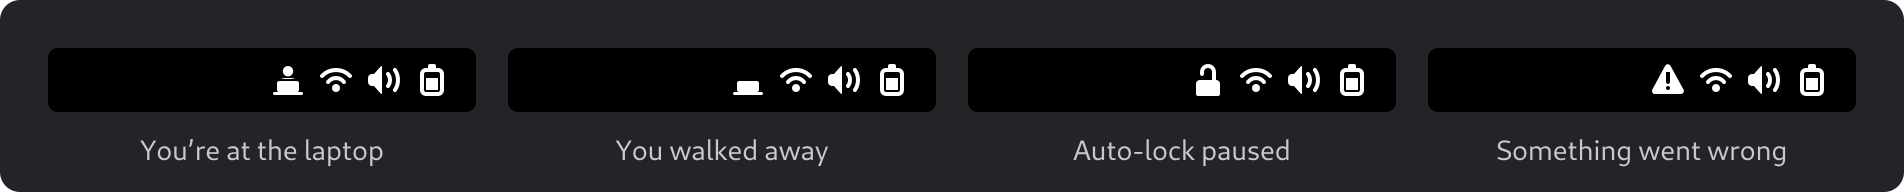
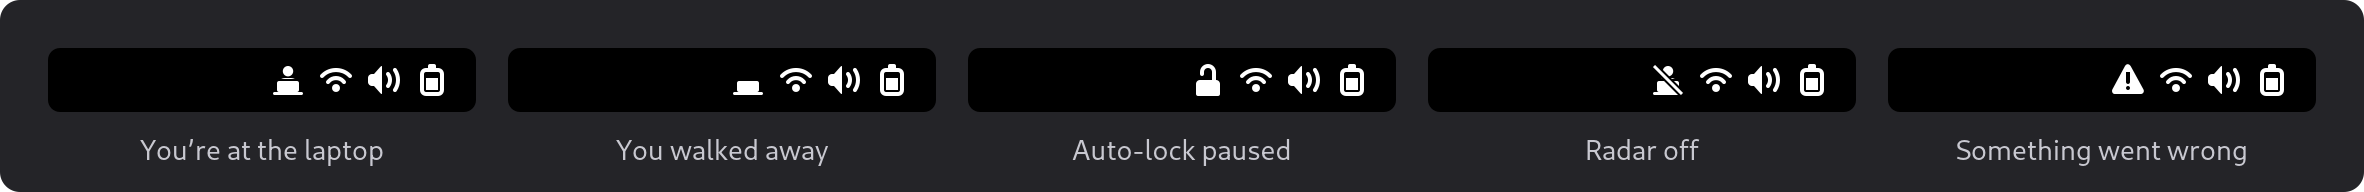
Add stay-awake option, radar switch and menu options
- Stay awake when present: hold an idle inhibitor while the radar sees
  you, so the screen doesn't blank, lock or suspend on its own.
- The Quick Settings tile now switches the radar on and off, like Wi-Fi
  or Bluetooth, with a crossed-out icon when off. Lock when away, Lock
  during playback and Stay awake are checkable in its menu.
- On any radar failure (read error, device gone, or 10 s without data),
  switch the radar off, cancel pending locks and release the inhibitor,
  so GNOME's own blanking, locking and suspend take over.

diff --git a/extension/extension.js b/extension/extension.js
@@ -9,6 +9,7 @@ import GObject from 'gi://GObject';
 import {Extension} from 'resource:///org/gnome/shell/extensions/extension.js';
 import * as Main from 'resource:///org/gnome/shell/ui/main.js';
 import * as MessageTray from 'resource:///org/gnome/shell/ui/messageTray.js';
+import * as PopupMenu from 'resource:///org/gnome/shell/ui/popupMenu.js';
 import * as QuickSettings from 'resource:///org/gnome/shell/ui/quickSettings.js';
 
 const SYSFS_DIR = '/sys/bus/platform/devices';
@@ -21,7 +22,20 @@ const SENSOR_NAME = 'Xethru Presence Sensor';
 const HEADER_LEN = 16;
 const PRESENCE_OFFSET = 26;
 
+// The radar sends about 4 samples a second, even when nothing changes, so
+// a long silence means it stopped working.
+const STALL_TIMEOUT = 10;
+const WATCHDOG_INTERVAL = 5;
+
 const IDLE_INHIBIT_FLAG = 8;
+
+function callSessionManager(method, params, replyType, cancellable, callback) {
+    Gio.DBus.session.call(
+        'org.gnome.SessionManager', '/org/gnome/SessionManager',
+        'org.gnome.SessionManager', method,
+        params, replyType ? new GLib.VariantType(replyType) : null,
+        Gio.DBusCallFlags.NONE, -1, cancellable, callback);
+}
 
 function readText(path) {
     const [, bytes] = GLib.file_get_contents(path);
@@ -79,23 +93,41 @@ function isLidClosed() {
 const TITLE = 'Presence Lock';
 // The tile is too narrow for the full name.
 const TILE_TITLE = 'Presence';
-const TILE_SUBTITLE = 'Lock when away';
 
-// Quick Settings tile: click to pause or resume auto-locking, arrow for
-// Settings.
+// Behavior options in the tile's menu, worded shorter than in Settings
+// to fit.
+const MENU_OPTIONS = [
+    ['auto-lock', 'Lock when away'],
+    ['lock-when-inhibited', 'Lock during playback'],
+    ['stay-awake', 'Stay awake when present'],
+];
+
+// Quick Settings tile: click to switch the radar on or off (like Wi-Fi or
+// Bluetooth), arrow for the on/off options (checkmarked like Power Mode)
+// and Settings.
 const PresenceToggle = GObject.registerClass(
 class PresenceToggle extends QuickSettings.QuickMenuToggle {
     _init(extension, settings) {
-        super._init({title: TILE_TITLE, subtitle: TILE_SUBTITLE, toggleMode: true});
-        settings.bind('auto-lock', this, 'checked', Gio.SettingsBindFlags.DEFAULT);
+        super._init({title: TILE_TITLE, toggleMode: true});
+        settings.bind('radar', this, 'checked', Gio.SettingsBindFlags.DEFAULT);
 
+        for (const [key, label] of MENU_OPTIONS) {
+            const item = this.menu.addAction(label,
+                () => settings.set_boolean(key, !settings.get_boolean(key)));
+            const sync = () => item.setOrnament(settings.get_boolean(key)
+                ? PopupMenu.Ornament.CHECK : PopupMenu.Ornament.NONE);
+            settings.connectObject(`changed::${key}`, sync, item);
+            sync();
+        }
+
+        this.menu.addMenuItem(new PopupMenu.PopupSeparatorMenuItem());
         this.menu.addAction('Settings', () => extension.openPreferences());
     }
 
     // Errors also go out as a notification; the subtitle just flags them.
-    setStatus(gicon, error) {
-        this.set({gicon, subtitle: error ?? TILE_SUBTITLE});
-        this.menu.setHeader(gicon, TITLE, error ?? '');
+    setStatus(gicon, status) {
+        this.set({gicon, subtitle: status});
+        this.menu.setHeader(gicon, TITLE, status ?? '');
     }
 });
 
@@ -109,10 +141,10 @@ class PresenceIndicator extends QuickSettings.SystemIndicator {
         this.quickSettingsItems.push(this.toggle);
     }
 
-    setStatus(gicon, error, showIcon, showToggle) {
+    setStatus(gicon, status, showIcon, showToggle) {
         this._icon.gicon = gicon;
         this._icon.visible = showIcon;
-        this.toggle.setStatus(gicon, error);
+        this.toggle.setStatus(gicon, status);
         this.toggle.visible = showToggle;
     }
 
@@ -131,6 +163,7 @@ export default class PresenceLockExtension extends Extension {
         this._icons = {
             present: fileIcon('presence-present'),
             away: fileIcon('presence-away'),
+            off: fileIcon('presence-off'),
             paused: Gio.ThemedIcon.new('changes-allow-symbolic'),
             error: Gio.ThemedIcon.new('dialog-warning-symbolic'),
         };
@@ -141,10 +174,37 @@ export default class PresenceLockExtension extends Extension {
         this._settings.connectObject(
             'changed::show-indicator', () => this._updateStatus(),
             'changed::auto-lock', () => this._onAutoLockChanged(),
+            'changed::stay-awake', () => this._updateStatus(),
+            'changed::radar', () => this._onRadarChanged(),
             this);
         Main.sessionMode.connectObject('updated', () => this._updateStatus(), this);
         this._updateStatus();
 
+        if (this._settings.get_boolean('radar'))
+            this._startRadar();
+    }
+
+    disable() {
+        this._stopRadar();
+        Main.sessionMode.disconnectObject(this);
+        this._settings.disconnectObject(this);
+        this._settings = null;
+        this._updateInhibit();
+        this._indicator.destroy();
+        this._indicator = null;
+        this._notificationSource?.destroy();
+        this._notificationSource = null;
+        this._icons = null;
+    }
+
+    _onRadarChanged() {
+        if (this._settings.get_boolean('radar'))
+            this._startRadar();
+        else
+            this._stopRadar();
+    }
+
+    _startRadar() {
         this._sensor = findSensor();
         if (!this._sensor) {
             this._setError('No radar found', 'This laptop has no Xethru presence sensor.');
@@ -160,34 +220,56 @@ export default class PresenceLockExtension extends Extension {
             return;
         }
         // Wrap the fd in a pollable stream so reads never block a thread
-        // and cancel cleanly on disable().
+        // and cancel cleanly in _stopRadar().
         this._stream = GioUnix.InputStream.new(this._fileStream.get_fd(), false);
         this._cancellable = new Gio.Cancellable();
         this._readNext();
+
+        this._lastSampleTime = GLib.get_monotonic_time();
+        this._watchdogId = GLib.timeout_add_seconds(GLib.PRIORITY_DEFAULT, WATCHDOG_INTERVAL, () => {
+            if (GLib.get_monotonic_time() - this._lastSampleTime < STALL_TIMEOUT * 1e6)
+                return GLib.SOURCE_CONTINUE;
+            this._watchdogId = 0;
+            this._setError('The radar stopped', 'It stopped sending data. Turn the radar off and on to retry.');
+            return GLib.SOURCE_REMOVE;
+        });
     }
 
-    disable() {
+    // Stops reading and switches the sensor off. With no presence known,
+    // nothing is scheduled to lock and the idle inhibitor is released, so
+    // GNOME's own blanking, locking and suspend take over.
+    _closeRadar() {
         this._cancellable?.cancel();
         this._cancellable = null;
+        if (this._watchdogId) {
+            GLib.source_remove(this._watchdogId);
+            this._watchdogId = 0;
+        }
         this._cancelLock();
         this._stream = null;
-        this._fileStream?.close(null);
+        try {
+            this._fileStream?.close(null);
+        } catch {
+            // The device may already be gone.
+        }
         this._fileStream = null;
         if (this._sensor)
             writeText(`${SYSFS_DIR}/${this._sensor}/enable_sensor`, '0');
         this._sensor = null;
-        Main.sessionMode.disconnectObject(this);
-        this._settings.disconnectObject(this);
-        this._settings = null;
-        this._indicator.destroy();
-        this._indicator = null;
-        this._notificationSource?.destroy();
-        this._notificationSource = null;
-        this._icons = null;
+        this._present = null;
     }
 
+    // Also clears any radar error, so turning the radar off and on retries.
+    _stopRadar() {
+        this._closeRadar();
+        this._error = null;
+        this._updateStatus();
+    }
+
+    // Radar errors stop it, falling back to GNOME's own behavior.
     _setError(summary, detail) {
         console.warn(`${this.metadata.name}: ${summary}. ${detail}`);
+        this._closeRadar();
         this._error = summary;
         this._updateStatus();
 
@@ -210,9 +292,12 @@ export default class PresenceLockExtension extends Extension {
     }
 
     _updateStatus() {
+        const radar = this._settings.get_boolean('radar');
         let icon;
         if (this._error)
             icon = this._icons.error;
+        else if (!radar)
+            icon = this._icons.off;
         else if (!this._settings.get_boolean('auto-lock'))
             icon = this._icons.paused;
         else if (this._present === false)
@@ -224,7 +309,42 @@ export default class PresenceLockExtension extends Extension {
         // unnoticed. Nothing shows on the lock screen.
         const locked = Main.sessionMode.isLocked;
         const showIcon = !locked && (!!this._error || this._settings.get_boolean('show-indicator'));
-        this._indicator.setStatus(icon, this._error, showIcon, !locked);
+        // No subtitle when off, like the built-in tiles.
+        let status = this._error;
+        if (!status && radar)
+            status = this._settings.get_boolean('auto-lock') ? 'Lock when away' : 'Not locking';
+        this._indicator.setStatus(icon, status, showIcon, !locked);
+        this._updateInhibit();
+    }
+
+    // With stay-awake on, hold an idle inhibitor while the radar sees you,
+    // so the screen doesn't blank, lock or suspend on its own. It's
+    // released as soon as you leave, before _maybeLock() checks for
+    // inhibitors.
+    _updateInhibit() {
+        const want = !!this._settings && this._settings.get_boolean('stay-awake') &&
+            this._present === true && !this._error && !Main.sessionMode.isLocked;
+
+        if (want && !this._inhibitCookie && !this._inhibitPending) {
+            // Not cancellable: the inhibitor would still be created, so
+            // wait for the cookie and release it here instead.
+            this._inhibitPending = true;
+            callSessionManager('Inhibit',
+                new GLib.Variant('(susu)', [this.uuid, 0, 'You’re at the computer', IDLE_INHIBIT_FLAG]),
+                '(u)', null, (connection, result) => {
+                    this._inhibitPending = false;
+                    try {
+                        [this._inhibitCookie] = connection.call_finish(result).deepUnpack();
+                    } catch (e) {
+                        console.warn(`${this.metadata.name}: Can’t inhibit idle. ${e.message}`);
+                        return;
+                    }
+                    this._updateInhibit();
+                });
+        } else if (!want && this._inhibitCookie) {
+            callSessionManager('Uninhibit', new GLib.Variant('(u)', [this._inhibitCookie]), null, null, null);
+            this._inhibitCookie = 0;
+        }
     }
 
     _readNext() {
@@ -234,13 +354,14 @@ export default class PresenceLockExtension extends Extension {
                 bytes = stream.read_bytes_finish(result);
             } catch (e) {
                 if (!e.matches(Gio.IOErrorEnum, Gio.IOErrorEnum.CANCELLED))
-                    this._setError('Lost the radar', `${e.message}. Turn the extension off and on to retry.`);
+                    this._setError('Lost the radar', `${e.message}. Turn the radar off and on to retry.`);
                 return;
             }
             if (bytes.get_size() === 0) {
-                this._setError('The radar stopped', 'It stopped sending data. Turn the extension off and on to retry.');
+                this._setError('The radar stopped', 'It stopped sending data. Turn the radar off and on to retry.');
                 return;
             }
+            this._lastSampleTime = GLib.get_monotonic_time();
             this._parse(bytes.toArray());
             this._readNext();
         });
@@ -315,11 +436,9 @@ export default class PresenceLockExtension extends Extension {
         }
 
         // Respect idle inhibitors (video playback, presentations, ...).
-        Gio.DBus.session.call(
-            'org.gnome.SessionManager', '/org/gnome/SessionManager',
-            'org.gnome.SessionManager', 'IsInhibited',
-            new GLib.Variant('(u)', [IDLE_INHIBIT_FLAG]), new GLib.VariantType('(b)'),
-            Gio.DBusCallFlags.NONE, -1, this._cancellable, (connection, result) => {
+        callSessionManager('IsInhibited',
+            new GLib.Variant('(u)', [IDLE_INHIBIT_FLAG]), '(b)',
+            this._cancellable, (connection, result) => {
                 let inhibited = false;
                 try {
                     [inhibited] = connection.call_finish(result).deepUnpack();

diff --git a/extension/prefs.js b/extension/prefs.js
@@ -24,6 +24,12 @@ export default class PresenceLockPreferences extends ExtensionPreferences {
         });
         settings.bind('lock-when-inhibited', inhibited, 'active', Gio.SettingsBindFlags.DEFAULT);
 
+        const stayAwake = new Adw.SwitchRow({
+            title: 'Stay awake while you’re here',
+            subtitle: 'While the radar sees you, the screen won’t blank, lock or suspend on its own.',
+        });
+        settings.bind('stay-awake', stayAwake, 'active', Gio.SettingsBindFlags.DEFAULT);
+
         const indicator = new Adw.SwitchRow({
             title: 'Show top bar icon',
             subtitle: 'Shows whether the radar sees you. Errors are shown even when this is off.',
@@ -33,6 +39,7 @@ export default class PresenceLockPreferences extends ExtensionPreferences {
         const group = new Adw.PreferencesGroup();
         group.add(delay);
         group.add(inhibited);
+        group.add(stayAwake);
         group.add(indicator);
 
         const page = new Adw.PreferencesPage();

diff --git a/README.md b/README.md
@@ -8,7 +8,7 @@ Touch Lock" / "lock on leave".
 No camera, no phone, no background service: the extension reads the radar
 directly (about 4 readings per second, negligible CPU).
 
-![The extension's icon in the top bar, next to Wi-Fi, sound and battery, in its four states](docs/top-bar.png)
+![The extension's icon in the top bar, next to Wi-Fi, sound and battery, in its five states](docs/top-bar.png)
 
 ## Supported hardware
 
@@ -71,8 +71,12 @@ gnome-extensions enable thinkpad-presence-lock@imaginationz.github.io
   - an app is blocking the screensaver (video playback, presentations), unless
     you turn that on in the settings;
   - the screen is already locked.
-- The radar is only switched on while the extension is enabled, so turning
-  the extension off also saves the power the radar uses.
+- **Stay awake while you're here** (off by default): while the radar sees
+  you, the screen won't blank, lock or suspend just because you haven't
+  touched the keyboard. Once you leave, the normal GNOME timers take over again.
+- The radar is only switched on while the extension is enabled. You can
+  also switch it off with the Quick Settings tile (below), which stops
+  auto-locking and staying awake and saves the power the radar uses.
 
 ## Top bar and Quick Settings
 
@@ -83,15 +87,26 @@ The icon sits with the system icons in the top-right corner:
 | Person at a laptop | The radar sees you |
 | Laptop only | You walked away; the screen is about to lock |
 | Open padlock | Auto-lock is paused |
+| Person at a laptop, crossed out | The radar is off |
 | Warning sign | Something went wrong (see the notification) |
 
-Quick Settings also gets a **Presence** tile ("Lock when away"). Click it to pause or
-resume auto-locking (the choice is kept across logins). Its arrow opens a
-menu with a link to the settings.
+Quick Settings also gets a **Presence** tile. Like the Wi-Fi and Bluetooth
+tiles, clicking it switches the radar on or off (kept across logins). Its
+arrow opens a menu, like the one for Power Mode, where you can check or
+uncheck:
+
+- **Lock when away**: uncheck to pause auto-locking (also kept across logins);
+- **Lock during playback** and **Stay awake when present** (short for the
+  settings below).
+
+The rest is in Settings, which the menu also links to.
 
 Problems such as a missing udev rule or a lost radar connection are shown as
 a notification, and the icon turns into a warning sign, even if you've
-hidden the icon.
+hidden the icon. The radar is then switched off and GNOME's usual screen
+blanking, locking and suspend apply, as if the extension weren't there. This
+includes the radar going silent for 10 s. Turning the radar off and on again
+retries.
 
 ## Settings
 
@@ -102,6 +117,7 @@ Open them from the Extensions app, or with
 |---|---|---|
 | Lock delay | 5 s | Extra wait (0–300 s) after the radar stops seeing you |
 | Lock even when the screensaver is blocked | Off | Also lock during video playback or presentations |
+| Stay awake while you're here | Off | While the radar sees you, the screen won't blank, lock or suspend because you haven't touched the keyboard (handy when reading or watching). Manual suspend and closing the lid still work |
 | Show top bar icon | On | Hide the icon; the Quick Settings tile stays, and errors still show the icon |
 
 ## How it works
